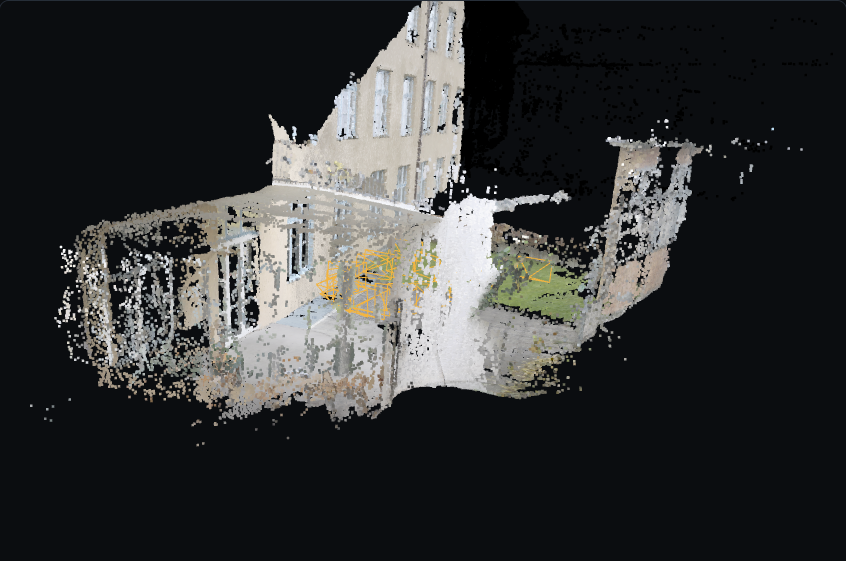
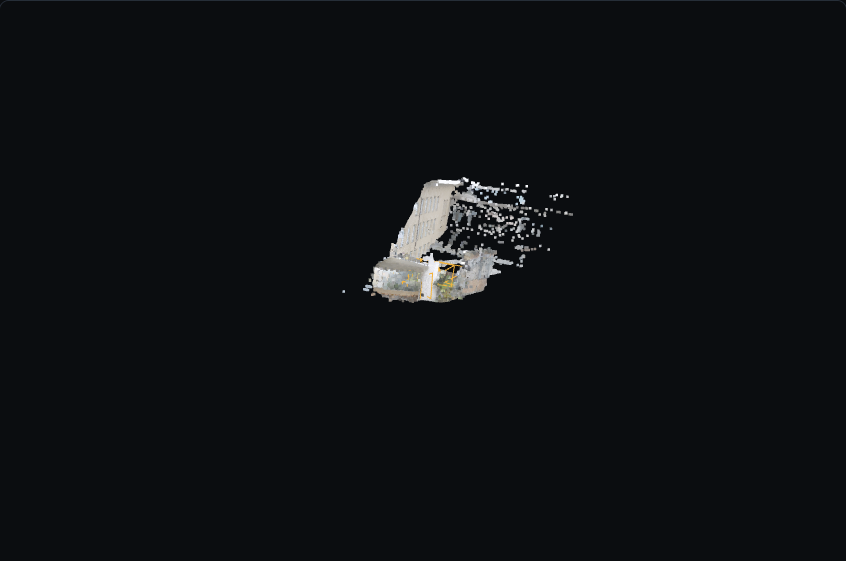
bench(viewer): dense GPU job through the streamed format and viewer measurements
Dense job: 248,468 points in 8 levels, 413 s submit to completed. Viewer on that cloud (software WebGL): first level 106 ms, all points 147 ms, 125,496 drawn while orbiting.

Changed region(s): [[0.0615, 0.0, 0.8913, 0.7576], [0.8605, 0.303, 0.8913, 0.3333]]

diff --git a/benchmarks/measure_viewer.py b/benchmarks/measure_viewer.py
@@ -1,0 +1,114 @@
+"""Measure the streamed multi-resolution viewer on the last dense job (docs/ARCHITECTURE.md).
+
+    python -m pytest tests/e2e/test_dense.py -m "e2e and gpu"   # makes the job, saves its ids
+    python benchmarks/measure_viewer.py
+
+Software rendering (headless Chromium + SwiftShader, no GPU), against the local object store, so
+the numbers show decode and draw cost, not network speed or a real GPU. Writes
+benchmarks/results/gate5/viewer_lod.json.
+"""
+
+from __future__ import annotations
+
+import json
+import os
+import re
+import time
+from pathlib import Path
+
+from playwright.sync_api import Page, expect, sync_playwright
+
+HOME = Path(os.environ.get("PARALLAXOPS_HOME") or Path(os.environ["LOCALAPPDATA"]) / "ParallaxOps")
+WEB = os.environ.get("WEB_URL", "http://127.0.0.1:3000")
+OUT = Path(__file__).parent / "results" / "gate5" / "viewer_lod.json"
+
+
+def attrs(page: Page) -> dict[str, str]:
+    return page.evaluate("() => ({...document.querySelector('[data-levels]').dataset})")
+
+
+def orbit(page: Page, steps: int = 24) -> tuple[float, int]:
+    """(mean wall ms of one drag step, points drawn while dragging). Each step renders once."""
+    box = page.locator("canvas").bounding_box()
+    assert box
+    x, y = box["x"] + box["width"] / 2, box["y"] + box["height"] / 2
+    page.mouse.move(x, y)
+    page.mouse.down()
+    t0 = time.perf_counter()
+    for i in range(steps):
+        page.mouse.move(x + 6 * (i + 1), y + 2 * (i + 1))
+    elapsed = time.perf_counter() - t0
+    drawn_while_moving = int(attrs(page)["drawn"])
+    page.mouse.up()
+    return round(1000 * elapsed / steps, 1), drawn_while_moving
+
+
+def main() -> None:
+    job = json.loads((HOME / "scratch" / "last_dense_job.json").read_text(encoding="utf-8"))
+    os.environ.setdefault("PLAYWRIGHT_BROWSERS_PATH", str(HOME / "tools" / "playwright"))
+    with sync_playwright() as pw:
+        browser = pw.chromium.launch(
+            args=[
+                "--use-gl=angle",
+                "--use-angle=swiftshader",
+                "--enable-unsafe-swiftshader",
+                "--ignore-gpu-blocklist",
+            ]
+        )
+        ctx = browser.new_context(viewport={"width": 1440, "height": 900}, color_scheme="dark")
+        ctx.add_init_script(f"window.localStorage.setItem('parallaxops.tenant', '{job['tenant']}')")
+        page = ctx.new_page()
+        page.goto(f"{WEB}/jobs/{job['job']}")
+        expect(page.locator("main h1 span[aria-live]")).to_contain_text("COMPLETED", timeout=30_000)
+        expect(page.locator("[data-done-ms]")).to_be_visible(timeout=60_000)
+        sparse = attrs(page)
+
+        page.get_by_role("radio", name=re.compile("Dense MVS")).check()
+        # the sparse cloud's attributes are cleared on switch; wait for the dense cloud to finish
+        expect(page.locator("[data-done-ms]")).to_have_attribute(
+            "data-total", re.compile(r"^\d{5,}$"), timeout=120_000
+        )
+        dense = attrs(page)
+        levels = [int(v) for v in dense["levels"].split(",")]
+        page.wait_for_timeout(1500)
+
+        at_rest = int(attrs(page)["drawn"])
+        full_step, moving = orbit(page)
+        page.wait_for_timeout(600)  # the viewer settles 180 ms after the last camera change
+        settled = int(attrs(page)["drawn"])
+
+        # cost of drawing each level while still: pick it in the Detail control, then orbit
+        page.locator("label:has-text('Detail') select").select_option(index=2)
+        mid_label = page.locator("label:has-text('Detail') select option:checked").inner_text()
+        mid_drawn = int(attrs(page)["drawn"])
+        mid_step, _ = orbit(page)
+
+        OUT.parent.mkdir(parents=True, exist_ok=True)
+        OUT.write_text(
+            json.dumps(
+                {
+                    "job_points_total": int(dense["total"]),
+                    "levels_cumulative": levels,
+                    "sparse_cloud": {k: sparse[k] for k in ("total", "firstMs", "doneMs")},
+                    "dense_first_level_ms": int(dense["firstMs"]),
+                    "dense_all_points_ms": int(dense["doneMs"]),
+                    "drawn_at_rest": at_rest,
+                    "drawn_while_orbiting": moving,
+                    "drawn_after_settling": settled,
+                    "orbit_step_ms_detail_full": full_step,
+                    "orbit_step_ms_detail_level3": mid_step,
+                    "detail_level3_label": mid_label,
+                    "detail_level3_points": mid_drawn,
+                    "renderer": "headless Chromium, SwiftShader software GL, local object store",
+                },
+                indent=2,
+            ),
+            encoding="utf-8",
+        )
+        page.screenshot(path=str(HOME / "scratch" / "viewer_dense.png"))
+        browser.close()
+    print(OUT.read_text(encoding="utf-8"))
+
+
+if __name__ == "__main__":
+    main()

diff --git a/tests/e2e/test_dense.py b/tests/e2e/test_dense.py
@@ -62,6 +62,13 @@ def test_dense_job_end_to_end() -> None:
     assert list(ends) == sorted(set(ends)) and ends[-1] == count and levels > 3
     assert len(lod) == -(-(40 + 4 * levels) // 16) * 16 + count * 16
 
+    # Not evidence: lets benchmarks/measure_viewer.py open this exact job in a browser afterwards.
+    scratch = HOME / "scratch"
+    scratch.mkdir(parents=True, exist_ok=True)
+    (scratch / "last_dense_job.json").write_text(
+        json.dumps({"tenant": t.id, "job": job_id}), encoding="utf-8"
+    )
+
     EVIDENCE.mkdir(parents=True, exist_ok=True)
     (EVIDENCE / "dense_job.json").write_text(
         json.dumps(
